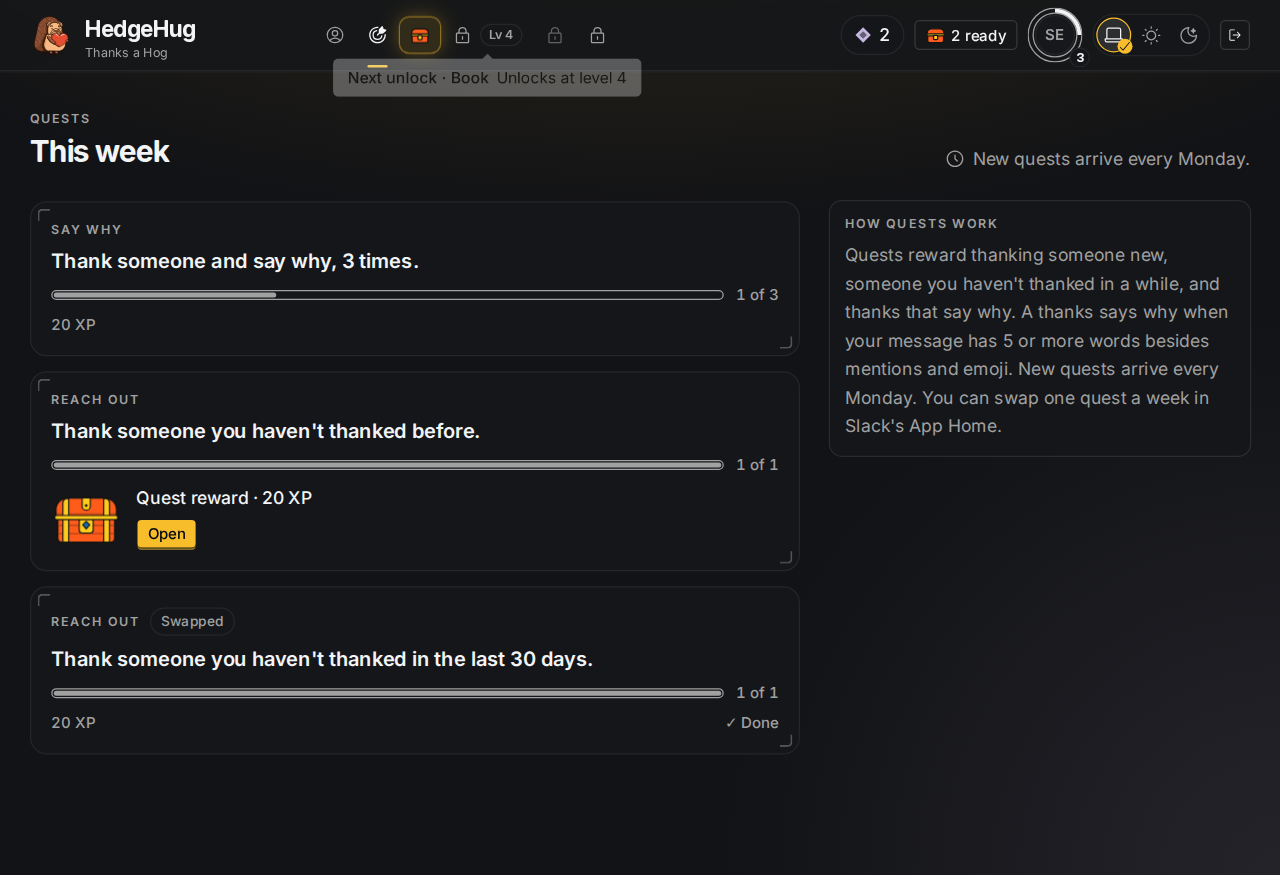
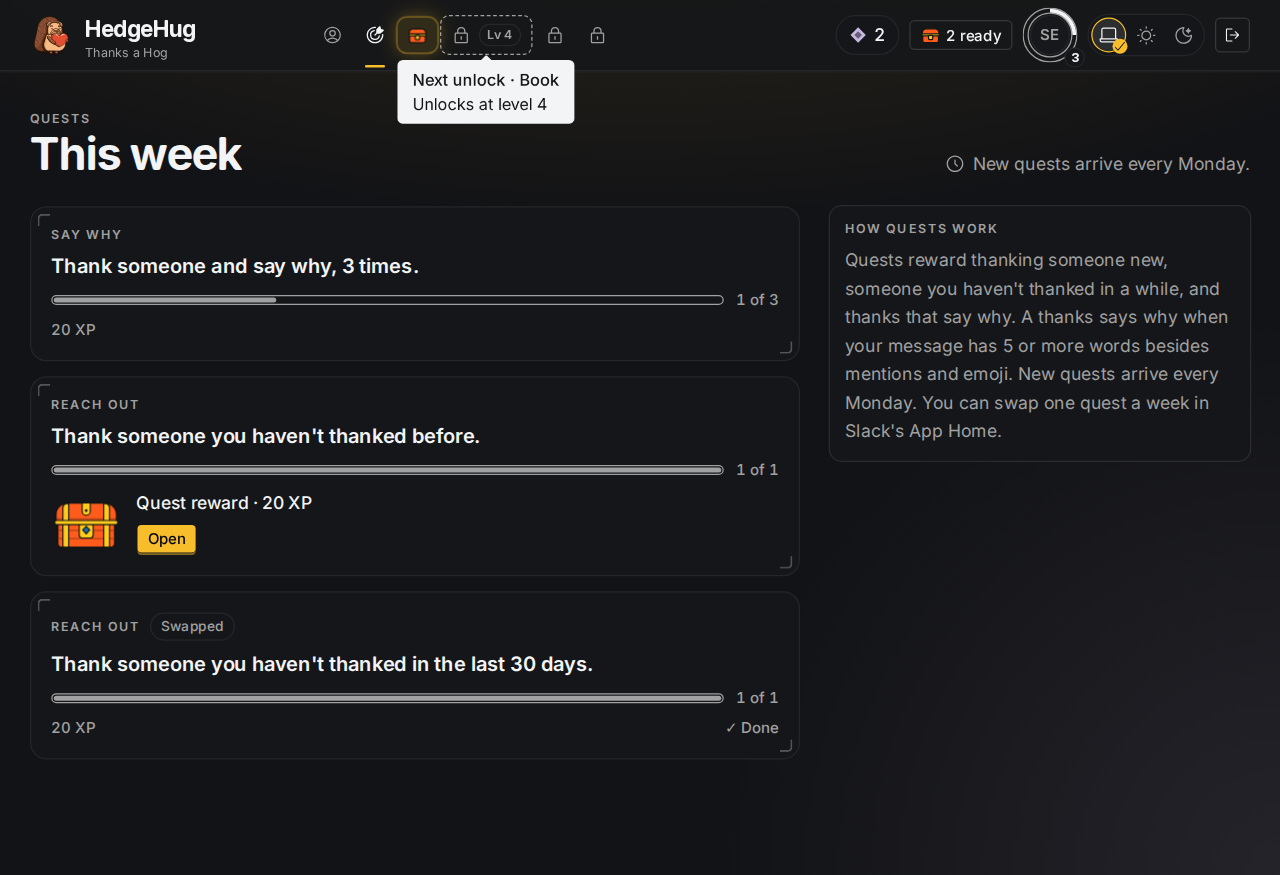
Fix Fable 5.1's design spot check of the HUD nav (#269)
- Tooltips stack their headline over their line.
- The next unlock gets E's dashed outline back, in a colour that meets 3:1,
  now that every locked entry shares the readable muted colour.
- The rail has top padding, so the ready glow and focus rings aren't clipped.
- The ready token's focus outline no longer replaces its glow.
- Sign out matches the chips' height; rail entries are as light as E's.

Refreshes the screenshots, the widths at 320 to 1440 px, and records both
reviews and their dispositions in the proof.

diff --git a/website/src/nav/ScreenNav.tsx b/website/src/nav/ScreenNav.tsx
@@ -10,9 +10,11 @@ import type { Feature, MemberProfile } from "../shell";
 import { navEntriesOf, type LockedEntry, type OpenEntry, type ReadyEntry } from "./entries";
 import "./nav.css";
 
-const entryShape = "relative flex shrink-0 items-center gap-1.5 whitespace-nowrap rounded-md px-2 py-1.5 text-[13px] font-medium outline-none focus-visible:ring-2 focus-visible:ring-ring max-lg:rounded-full max-lg:px-3 max-lg:py-1 max-lg:text-sm";
+const tokenShape = "relative flex shrink-0 items-center gap-1.5 whitespace-nowrap rounded-md px-2 py-1.5 text-[13px] outline-none lg:font-medium max-lg:rounded-full max-lg:px-3 max-lg:py-1 max-lg:text-sm max-lg:[&>svg]:size-3.5";
 
-const currentLook = "text-foreground max-lg:bg-primary max-lg:text-primary-foreground lg:after:absolute lg:after:inset-x-2 lg:after:-bottom-[12px] lg:after:h-0.5 lg:after:rounded-full lg:after:bg-primary";
+const entryShape = `${tokenShape} focus-visible:ring-2 focus-visible:ring-ring`;
+
+const currentLook = "text-foreground max-lg:bg-primary max-lg:font-medium max-lg:text-primary-foreground lg:after:absolute lg:after:inset-x-2 lg:after:-bottom-[12px] lg:after:h-0.5 lg:after:rounded-full lg:after:bg-primary";
 
 const idleLook = "text-muted-foreground hover:bg-fill-hover hover:text-foreground";
 
@@ -24,7 +26,7 @@ export function ScreenNav({ current, member }: { current?: Screen; member: Membe
       ref={rail}
       aria-label="Screens"
       onFocus={(event) => bringIntoView(event.target)}
-      className="flex flex-nowrap items-center gap-0.5 max-lg:order-last max-lg:-mx-4 max-lg:w-[calc(100%+2rem)] max-lg:gap-1 max-lg:overflow-x-auto max-lg:px-3 max-lg:pb-2 max-lg:scroll-px-3 md:max-lg:-mx-6 md:max-lg:w-[calc(100%+3rem)] md:max-lg:px-5 lg:mx-auto"
+      className="flex flex-nowrap items-center gap-0.5 max-lg:order-last max-lg:-mx-4 max-lg:w-[calc(100%+2rem)] max-lg:gap-1 max-lg:overflow-x-auto max-lg:px-3 max-lg:pt-1.5 max-lg:pb-2 max-lg:scroll-px-3 md:max-lg:-mx-6 md:max-lg:w-[calc(100%+3rem)] md:max-lg:px-5 lg:mx-auto"
     >
       {entries.map((entry) => {
         if (entry.state === "open") return <OpenItem key={entry.href} entry={entry} current={current === entry.screen} />;
@@ -78,7 +80,7 @@ function ReadyItem({ entry: { card, name } }: { entry: ReadyEntry }) {
         onClick={() => {
           if (!opening) moments?.open(crate);
         }}
-        className={`${entryShape} nav-token font-semibold text-foreground`}
+        className={`${tokenShape} nav-token font-semibold text-foreground`}
       >
         <CrateGlyph className="size-4" />
         <Label>{opening ? "Opening…" : name}</Label>
@@ -105,7 +107,7 @@ function LockedItem({ entry: { name, level, next } }: { entry: LockedEntry }) {
         tabIndex={0}
         aria-disabled="true"
         aria-label={`${name}, locked. Unlocks at level ${level}`}
-        className={`${entryShape} cursor-default text-muted-foreground`}
+        className={`${entryShape} cursor-default text-muted-foreground ${next ? "border border-dashed border-muted-foreground" : ""}`}
       >
         <IconLock className="size-4" />
         <Label>{name}</Label>
@@ -127,7 +129,7 @@ function WithTip({ tip, onlyWhenIconOnly = false, children }: { tip: ReactNode; 
   return (
     <Tooltip>
       <TooltipTrigger render={children} />
-      <TooltipContent className={onlyWhenIconOnly ? "hidden lg:max-xl:block" : undefined}>{tip}</TooltipContent>
+      <TooltipContent className={`flex-col items-start gap-0 ${onlyWhenIconOnly ? "hidden lg:max-xl:flex" : ""}`}>{tip}</TooltipContent>
     </Tooltip>
   );
 }

diff --git a/website/src/nav/hud.test.tsx b/website/src/nav/hud.test.tsx
@@ -59,6 +59,8 @@ describe("WS301: the nav lists every shipped feature with a page, in schedule or
       expect(locked).not.toHaveAttribute("href");
     }
     expect(book).toHaveTextContent("Lv 8");
+    expect(book).toHaveClass("border-dashed");
+    expect(skillTree).not.toHaveClass("border-dashed");
     expect(skillTree).not.toHaveTextContent("Lv");
     for (const locked of [book, skillTree]) expect(locked).toHaveClass("text-muted-foreground");
     expect(nav()).not.toHaveTextContent(/levels? to go|XP|%/);
@@ -71,7 +73,9 @@ describe("WS301: the nav lists every shipped feature with a page, in schedule or
     const { user } = renderApp(everyState);
     const locked = within(nav()).getByRole("link", { name });
     await user.hover(locked);
-    expect(await tooltip()).toHaveTextContent(tip);
+    const shown = await tooltip();
+    expect(shown).toHaveTextContent(tip);
+    expect(shown).toHaveClass("flex-col", "items-start");
     await user.click(locked);
     expect(window.location.pathname).toBe("/");
   });
@@ -132,6 +136,7 @@ describe("WS302: labels and widths", () => {
     window.history.replaceState(null, "", "/quests");
     renderApp(everyState);
     for (const label of nav().querySelectorAll("[data-entry-label]")) expect(label).toHaveClass("lg:max-xl:sr-only");
+    expect(nav()).toHaveClass("max-lg:pt-1.5", "max-lg:pb-2");
     const current = within(nav()).getByRole("link", { name: "Quests" });
     expect(current).toHaveAttribute("aria-current", "page");
     expect(current).toHaveClass("max-lg:rounded-full", "max-lg:bg-primary", "max-lg:text-primary-foreground", "lg:after:bg-primary");
@@ -145,7 +150,7 @@ describe("WS302: labels and widths", () => {
     expect(within(nav()).getByRole("link", { name: "Quests" })).toHaveFocus();
     const tip = await tooltip();
     expect(tip).toHaveTextContent("Quests");
-    expect(tip).toHaveClass("hidden", "lg:max-xl:block");
+    expect(tip).toHaveClass("hidden", "lg:max-xl:flex", "flex-col");
   });
 });
 

diff --git a/website/src/levelContrast.test.tsx b/website/src/levelContrast.test.tsx
@@ -127,6 +127,7 @@ function navMarks() {
     { part: "the pill's label and icon on the pill", paints: tokenOf(pill, "max-lg:text"), surface: "primary", least: 4.5 },
     { part: "the next unlock's lock and label", paints: tokenOf(next, "text"), surface: "card", least: 4.5 },
     { part: "a later unlock's lock and label", paints: tokenOf(later, "text"), surface: "card", least: 4.5 },
+    { part: "the next unlock's dashed outline", paints: tokenOf(next, "border"), surface: "card", least: 3 },
     { part: "the ready entry's crate glyph and label", paints: tokenOf(ready, "text"), surface: "card", least: 4.5 },
   ];
 }

diff --git a/website/proof/hud-nav/fixture/proof-fixture.tsx b/website/proof/hud-nav/fixture/proof-fixture.tsx
@@ -35,7 +35,7 @@ show();
 if (params.get("six") === "1") {
   const grow = () => {
     const nav = document.querySelector('nav[aria-label="Screens"]');
-    const locked = nav?.querySelector('[role="link"][aria-disabled="true"]:not([data-clone])');
+    const locked = [...(nav?.querySelectorAll('[role="link"][aria-disabled="true"]:not([data-clone])') ?? [])].at(-1);
     if (!nav || !locked) return requestAnimationFrame(grow);
     const entry = locked.cloneNode(true) as HTMLElement;
     entry.dataset.clone = "";

diff --git a/website/src/Frame.tsx b/website/src/Frame.tsx
@@ -80,7 +80,7 @@ function avatarName({ name, progression }: MemberProfile) {
 
 function SignOut({ onSignOut }: { onSignOut: () => void }) {
   return (
-    <Button variant="outline" size="icon-sm" aria-label="Sign out" title="Sign out" onClick={onSignOut}>
+    <Button variant="outline" size="icon" aria-label="Sign out" title="Sign out" onClick={onSignOut}>
       <IconLeave />
     </Button>
   );

diff --git a/website/proof/hud-nav/README.md b/website/proof/hud-nav/README.md
@@ -3,7 +3,7 @@
 ## Tests
 
 - [red.txt](red.txt): `navEntriesOf` before `nav/entries.ts` existed, and the HUD's `App` tests on `d0abca6` (16 of 17 failing; the one passing holds trivially before the change: no pop-in on a reload).
-- [green.txt](green.txt): the same 21 tests passing, every assertion intact.
+- [green.txt](green.txt): the same tests passing, every assertion intact, with the review rounds' tests added.
 - [gate.txt](gate.txt): `pnpm gate` through `fleet heavy` on the landed tree.
 
 ## Width proof (WS300 with WS301's entries)
@@ -12,10 +12,13 @@ Chromium (T3 preview), the fixture build in `fixture/` with `?six=1&path=/quests
 
 | Viewport | `document.documentElement.scrollWidth` | Header |
 |---|---|---|
-| 320 px | 320 | 93 px: bar plus rail |
-| 390 px | 390 | 93 px: bar plus rail |
+| 320 px | 320 | 101 px: bar plus rail |
+| 390 px | 390 | 101 px: bar plus rail |
+| 640 px | 640 | 101 px: bar plus rail |
 | 1024 px | 1024 | 57 px, one row; all six labels visually hidden (icon-only, `lg` to `xl`) |
 | 1440 px | 1440 | 57 px, one row; all six labels shown |
+
+The rail's 6 px top padding (Fable finding 3) keeps the ready glow and focus rings inside the rail's scroll box.
 
 ## Pop-in (WS304) in a real browser
 
@@ -23,15 +26,36 @@ On `/quests`, clicking the nav's `Leaderboard: unlock ready. Open its crate` sen
 
 ## V24 manual pass
 
+- **Focus on the ready crate** keeps its glow and adds a 2 px outline in the ring colour (computed: `outline: solid 2px`, the 16 px glow still in `box-shadow`): [dark, 1440 px](branch-1440-dark-ready-focus.png).
 - **Focus order** (Tab through the bar on `/quests` at 1440 px): Leaderboard's crate, Book (locked), Skill tree (locked), `2 skill points to spend`, `2 ready`, `Sam Example, level 3`, the three theme buttons, `Sign out`, then the page's `Open`. Every stop matched `:focus-visible`. Keyboard focus on a nav entry opens its tooltip.
 - **Screen-reader wording:** `Profile`; `Quests`; `Leaderboard: unlock ready. Open its crate`; `Book, locked. Unlocks at level 4` (a link marked disabled, with no `href`); `Sam Example, level 3`, described as `Level 3, 90 XP to level 4`; `Sign out`.
 - **Reduced motion:** the pop-in, the crate token's entrance and its shimmer play only under `prefers-reduced-motion: no-preference`; the pop-in class is never set under `reduce` (tested).
+
+## Reviews
+
+**GPT-6.1 Sol, round 1** ([review-sol.md](review-sol.md)), on the diff with the spec as the oracle: no high findings.
+1. The ready token lost its focus ring under its glow. **Fixed**: an explicit focus-visible outline (`nav.css`).
+2. Later locked entries at 55% failed 4.5:1. **Fixed**: every locked entry uses `text-muted-foreground`; the contrast test now measures the later lock too.
+3. A pending nav open kept inviting a click. **Fixed**: `Opening…`, `{name}: opening its crate`, `aria-disabled`, one send (tested with a deferred answer).
+4. A failed open of a later crate had no visible message. **Fixed**: the bar shows the first failed attempt among crates not shown on the page (tested for refused and unreachable).
+5. The pop-in replayed after the HUD remounted. **Fixed**: the pop-in is consumed on its own `animationend` (tested through a lost connection).
+6. The rail didn't scroll an entry into view when it turned open on its page. **Fixed**: the effect follows the current entry's existence (tested).
+7. Low: the motion tests check a class, not an animation. **Partly rejected**: jsdom has no animation engine; the browser check above reads the computed `animation-name`, and finding 5's test now drives `animationend`.
+
+**Fable 5.1 design spot check**, on the screenshots: all six held and are fixed.
+1. Tooltips stack their two lines (`flex-col items-start`).
+2. The next unlock gets E's dashed outline again, in `border-muted-foreground` (3:1, tested), now that every locked entry shares one colour.
+3. The rail has top padding, so the glow and focus rings aren't clipped.
+4. The ready token's focus outline no longer replaces its glow (its shape drops `focus-visible:ring`).
+5. `Sign out` is `size="icon"`, matching the chips' height.
+6. Rail entries use 14 px icons and `font-medium` on the current entry only, as E's do.
 
 ## Screenshots
 
 - This branch at 390 px: [light](branch-390-light.png), [dark](branch-390-dark.png)
 - This branch at 1440 px: [light](branch-1440-light.png)
 - This branch at 1024 px, icon-only, with the next unlock's tooltip: [dark](branch-1024-dark-next-unlock-tooltip.png)
+- This branch at 1440 px, the ready crate with keyboard focus: [dark](branch-1440-dark-ready-focus.png)
 - Variant E at level 3, 390 px: [light](variant-e-level-3-390-light.png). At level 4, 1440 px: [light](variant-e-level-4-1440-light.png)
 
 E's rail shows `Lv` on every locked entry; WS301 keeps it on the next unlock only.

diff --git a/website/proof/hud-nav/review-sol.md b/website/proof/hud-nav/review-sol.md
@@ -1,0 +1,19 @@
+# GPT-6.1 Sol review, round 1 (on 72de98f)
+
+No high-severity findings.
+
+1. **Medium — [website/src/nav/nav.css:4](website/src/nav/nav.css:4): Ready entries lose their keyboard focus ring.** The unlayered `box-shadow` overrides Tailwind’s layered `focus-visible:ring-2`, while `outline-none` removes the native outline. **Scenario:** Tab onto a ready crate; its outline remains the same as when unfocused. **Fix:** preserve the ring when composing shadows, or add an explicit focus-visible outline, and verify it visually (V24).
+
+2. **Medium — [website/src/nav/ScreenNav.tsx:101](website/src/nav/ScreenNav.tsx:101): Later locked entries fail the specified contrast thresholds.** At 55% opacity, their labels have roughly 2.6:1 contrast in light mode and 3.0:1 in dark mode, below V24’s 4.5:1 text requirement. **Scenario:** Book is next and Skill tree remains locked. **Fix:** use a readable muted colour and extend the contrast test to later locked entries; it currently measures only the next lock (WS339).
+
+3. **Medium — [website/src/nav/ScreenNav.tsx:69](website/src/nav/ScreenNav.tsx:69): A pending nav open keeps inviting the member to open its crate.** **Scenario:** Hold `openFeature` pending: the entry still displays its name, announces “unlock ready,” and retains its entrance/shimmer animation. **Fix:** show and announce `Opening…` and suppress motion until the answer, matching the crate behavior WS301 imports from WS66; test with a deferred response.
+
+4. **Medium — [website/src/nav/ScreenNav.tsx:57](website/src/nav/ScreenNav.tsx:57): A failed open of a later ready entry can produce no visible feedback.** **Scenario:** On `/quests`, with Leaderboard and Skill tree ready, opening Skill tree refuses or rejects. The entry ignores failure states, and the header checks only Leaderboard’s attempt; only the hidden live region reports failure. **Fix:** display the attempted entry’s refusal or connection error in the HUD and test both responses (WS301/WS66).
+
+5. **Medium — [website/src/nav/ScreenNav.tsx:39](website/src/nav/ScreenNav.tsx:39): The pop-in can replay without another opening.** **Scenario:** Open Skill tree, finish its reveal, pass through a connecting state, then restore the same member. The remounted nav link and chip both retain `nav-pop`, restarting their animations. **Fix:** consume each visual pop-in after its first presentation instead of retaining permanent freshness (WS304).
+
+6. **Medium — [website/src/nav/ScreenNav.tsx:128](website/src/nav/ScreenNav.tsx:128): Current-entry scrolling misses locked/ready deep links and subsequent opening at the same URL.** **Scenario:** Load `/skills` on a narrow screen with Skill tree ready at the rail’s far end, then open it through the ready pill. Initially there is no current marker; after opening, the effect does not rerun because `current` is unchanged. **Fix:** retain route identity across entry states and scroll when the current entry becomes available (WS300).
+
+7. **Low — [website/src/nav/hud.test.tsx:158](website/src/nav/hud.test.tsx:158): The motion tests verify class names rather than the promised animation behavior.** **Scenario:** Delete the `.nav-pop` animation rule; the tests still pass although nothing pops in. The “ordinary visit or reload” test also exercises only a fresh initial render. **Fix:** add a browser check for an actual animation that finishes once, including remount and reduced-motion scenarios.
+
+Verdict: request changes for the six medium-severity defects.
